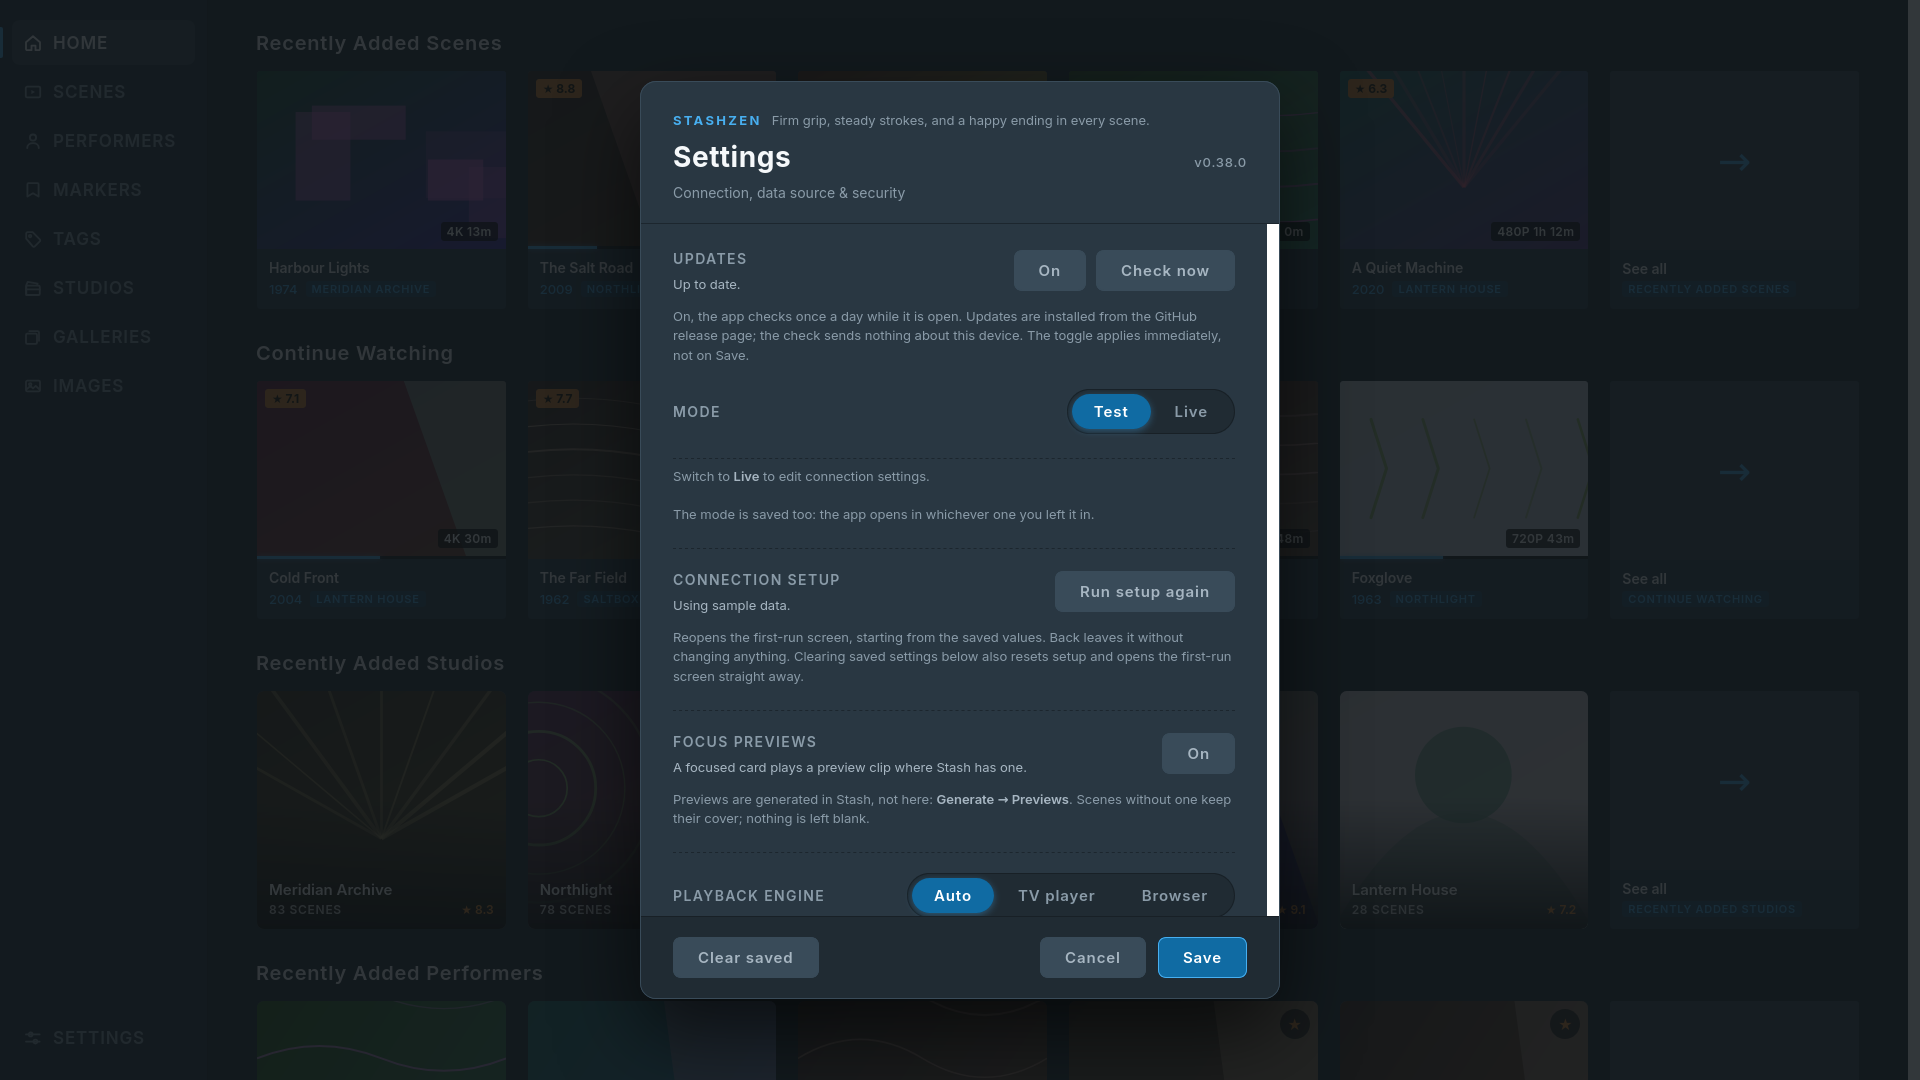
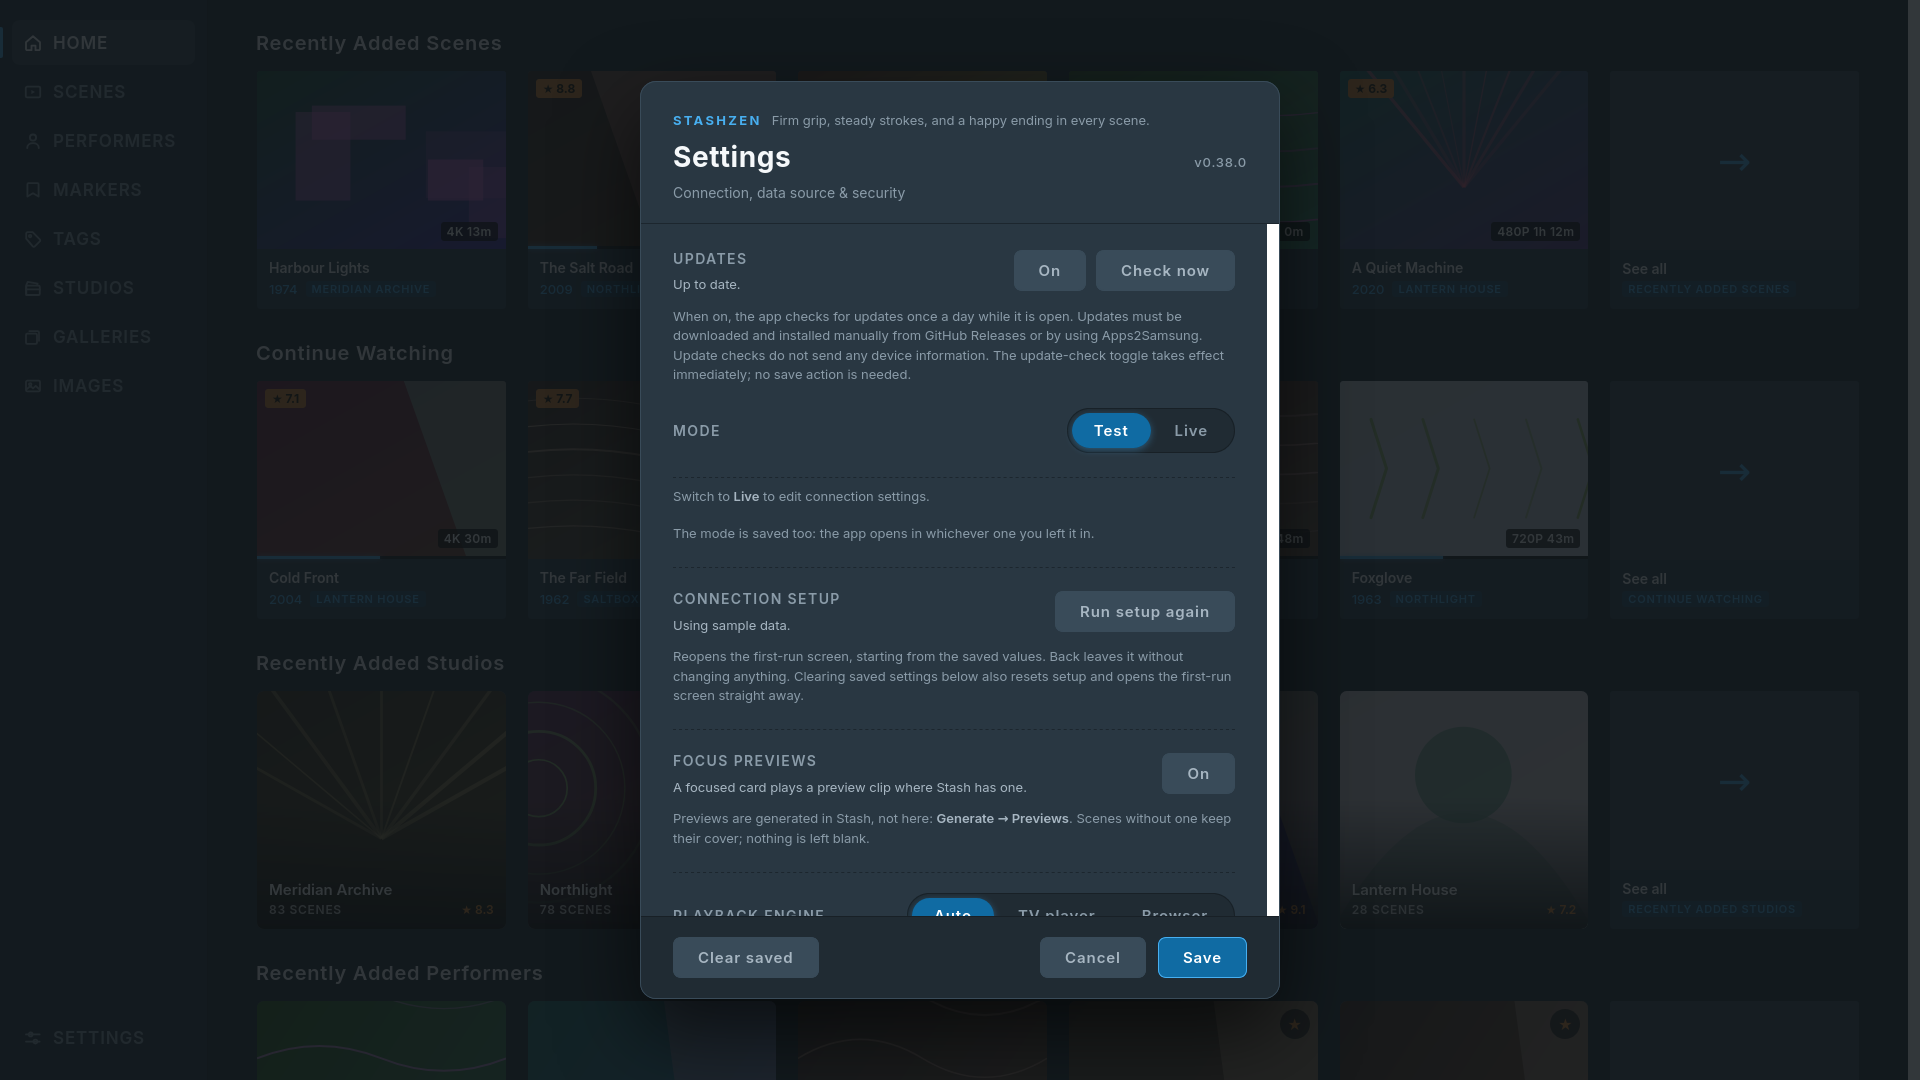
Say how updates are installed and what the check sends
The old hint started with a dangling "On," and named only the release page.

diff --git a/src/components/settings/UpdateSection.jsx b/src/components/settings/UpdateSection.jsx
@@ -65,9 +65,11 @@ export function UpdateSection() {
       </div>
 
       <p className={styles.hint}>
-        On, the app checks once a day while it is open. Updates are installed
-        from the GitHub release page; the check sends nothing about this device.
-        The toggle applies immediately, not on Save.
+        When on, the app checks for updates once a day while it is open. Updates
+        must be downloaded and installed manually from GitHub Releases or by
+        using Apps2Samsung. Update checks do not send any device information.
+        The update-check toggle takes effect immediately; no save action is
+        needed.
       </p>
     </div>
   );
